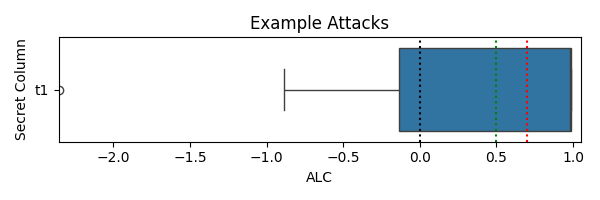
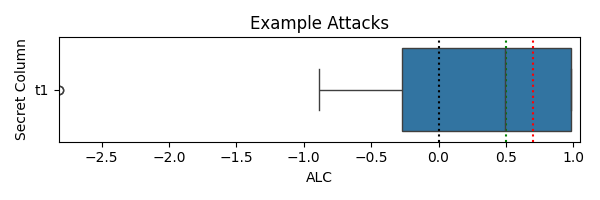
added adaptive halt criteria

diff --git a/anonymity_loss_coefficient/alc/alc_manager.py b/anonymity_loss_coefficient/alc/alc_manager.py
@@ -100,10 +100,11 @@ class ALCManager:
         caller must make an attack prediction in each loop. This method determines
         when enough predictions have been made to produce a good ALC score.
         """
+        self.num_prc_measures = self.halt_min_significant_attack_prcs
         # First check if we have already run this attack.
         if self.rep.already_attacked(secret_column, known_columns):
             self.logger.info(f"Already ran attack on {secret_column} with known columns {known_columns}. Skipping.")
-            self.halt_info = {'halted': True, 'reason': 'attack already run. skipping.', 'num_attacks': 0}
+            self.halt_info = {'halted': True, 'reason': 'attack already run. skipping.', 'num_attacks': 0, 'halt_code': 'skip'}
             return
 
         # Establish the targets to ignore, if any, and make a ScoreInterval object
@@ -112,7 +113,7 @@ class ALCManager:
         if ignore_value is not None:
             if ignore_fraction == 0.0:
                 self.logger.info(f"Only one value in {secret_column}, so halt.")
-                self.halt_info = {'halted': True, 'reason': 'Only one value to attack. skipping.', 'num_attacks': 0}
+                self.halt_info = {'halted': True, 'reason': 'Only one value to attack. skipping.', 'num_attacks': 0, 'halt_code': 'one_value'}
                 return
             decoded_ignore_value = self.decode_value(secret_column, ignore_value)
             self.logger.info(f"The value {decoded_ignore_value} constitutes {round((100*(1-ignore_fraction)),2)} % of column {secret_column}, so we'll ignore a proportional fraction of those values in the attacks so that our results are better balanced.")
@@ -122,7 +123,7 @@ class ALCManager:
         self._init_cntl_and_build_model(known_columns, secret_column)
 
         num_attacks = 0
-        self.halt_info = {'halted': False, 'reason': 'halt not yet checked', 'num_attacks': 1}
+        self.halt_info = {'halted': False, 'reason': 'halt not yet checked', 'num_attacks': 1, 'halt_code': 'none'}
         self.attack_in_progress = True
         while True:
             for i in range(len(self.df.cntl)):
@@ -171,13 +172,13 @@ class ALCManager:
                 self.logger.debug(pp.pformat(self.halt_info))
                 if self.halt_info['halted'] is True:
                     self.attack_in_progress = False
-                    self.rep.consolidate_results(si_halt.get_alc_scores())
+                    self.rep.consolidate_results(si_halt.get_alc_scores(self.num_prc_measures), self.halt_info['halt_code'])
                     return
             is_assigned = self._next_cntl_and_build_model()
             if is_assigned is False:
-                self.halt_info = {'halted': False, 'reason': 'exhausted all rows',  'num_attacks': num_attacks}
+                self.halt_info = {'halted': True, 'reason': 'exhausted all rows',  'num_attacks': num_attacks, 'halt_code': 'exhausted'}
                 self.attack_in_progress = False
-                self.rep.consolidate_results(si_halt.get_alc_scores())
+                self.rep.consolidate_results(si_halt.get_alc_scores(self.num_prc_measures), self.halt_info['halt_code'])
                 return
 
     def abstention(self) -> bool:
@@ -322,40 +323,68 @@ class ALCManager:
 
     def _ok_to_halt(self, si_halt: ScoreInterval) -> Dict[str, Any]:
         if len(si_halt.df_base) < 10 or len(si_halt.df_attack) < 10:
-            return {'halted': False, 'reason': f'not enough samples {len(si_halt.df_base)} base, {len(si_halt.df_attack)} attack'}
-        alc_scores = si_halt.get_alc_scores()
+            return {'halted': False, 'reason': f'not enough samples {len(si_halt.df_base)} base, {len(si_halt.df_attack)} attack', 'halt_code': 'none'}
+        alc_scores = si_halt.get_alc_scores(self.num_prc_measures)
         # put the values of alc_scores['paired'] into a list called paired
         if len(alc_scores) == 0:
-            return {'halted': False, 'reason':f'no alc scores with attack and base score intervals < {self.max_score_interval}'}
+            return {'halted': False, 'reason':f'no alc scores with attack and base score intervals < {self.max_score_interval}', 'halt_code': 'none'}
         best_alc_score, alc_scores = si_halt.split_scores(alc_scores)
         if best_alc_score is None:
-            return {'halted': False, 'reason':f'no prc scores with attack and base score intervals < {self.halt_interval_thresh}'}
+            return {'halted': False, 'reason':f'no prc scores with attack and base score intervals < {self.halt_interval_thresh}', 'halt_code': 'none'}
 
         ret = best_alc_score
         if ret['alc_high'] < self.halt_thresh_low:
-            ret.update({'halted':True, 'reason':'alc extremely low'})
+            ret.update({'halted':True, 'reason':'alc extremely low', 'halt_code': 'extreme_low'})
             return ret
         if ret['alc_low'] > self.halt_thresh_high:
-            ret.update({'halted':True, 'reason':'alc extremely high'})
+            ret.update({'halted':True, 'reason':'alc extremely high', 'halt_code': 'extreme_high'})
             return ret
         # We didn't halt because of extreme high or low ALC, so now we want to determine
         # if further attacks are likely to yield a better ALC.
         # Sort alc_scores from highest to lowest 'attack_recall'
-        attack_prcs = self._get_significant_attack_prcs(alc_scores)
-        if len(attack_prcs) == len(alc_scores) and (len(si_halt.df_base) > 200 or len(si_halt.df_attack) > 200):
+        sig_attack_prcs = self._get_significant_attack_prcs(alc_scores)
+        if len(sig_attack_prcs) == len(alc_scores):
             # This occurs if all alc_scores are significant (have attack_si and
-            # base_si < halt_interval_thresh). Further attacks will only normally reduce
-            # the already measured precision score intervals, not yield still lower
-            # recall values.
-            ret.update({'halted':True, 'reason':f'all {len(attack_prcs)} attack prc measures significant'})
+            # base_si < halt_interval_thresh). Make sure we have 200 predictions
+            # so that we've given an adequate opportunity to get all the confidence
+            # values we're likely to get.
+            if len(si_halt.df_base) < 200 and len(si_halt.df_attack) < 200:
+                ret.update({'halted':False, 'reason':f'not enough samples to have adequate predictions when all attack prc measures {len(sig_attack_prcs)} significant', 'halt_code': 'none'})
+                return ret
+
+            # Check if there are simply not very many different confidence values,
+            # because if so, then more attacks aren't going to help much because we
+            # aren't likely to get more different confidence values.
+            if len(sig_attack_prcs) < self.num_prc_measures:
+                ret.update({'halted':True, 'reason':f'all {len(sig_attack_prcs)} attack prc measures significant', 'halt_code': 'all_sig'})
+                return ret
+            
+            # Check to see if we aren't making significant improvement by reducing
+            # recall. If not we halt, but if we are, we increase num_prc_measures so
+            # as to dig out still lower recall values.
+            if ((sig_attack_prcs[-1] - sig_attack_prcs[-2] >= self.halt_min_prc_improvement)
+                and (sig_attack_prcs[-2] - sig_attack_prcs[-3] >= self.halt_min_prc_improvement)
+               ): 
+                self.num_prc_measures += 1
+                ret.update({'halted':False, 'reason':f'still improving at {len(sig_attack_prcs)} significant attack prc measures', 'halt_code': 'none'})
+                return ret
+            ret.update({'halted':True, 'reason':f'all {len(sig_attack_prcs)} attack prc measures significant with no improvement', 'halt_code': 'no_improve_all_sig'})
             return ret
-        if len(attack_prcs) < self.halt_min_significant_attack_prcs:
-            ret.update({'halted':False, 'reason':f'too few significant attack prc measures ({len(attack_prcs)})'})
+        # If we get here, it means that there are some PRC measures that are
+        # not yet significant. This means that we have a chance to get better
+        # PRC scores with the set of confidence values we currently have.
+
+        # Let's not give up if we don't have many significant attack prc measures.
+        if len(sig_attack_prcs) < self.halt_min_significant_attack_prcs:
+            ret.update({'halted':False, 'reason':f'too few significant attack prc measures ({len(sig_attack_prcs)})', 'halt_code': 'none'})
             return ret
-        if attack_prcs[-1] - attack_prcs[-2] < self.halt_min_prc_improvement:
-            ret.update({'halted':True, 'reason':f'attack prc measures not improving more than {self.halt_min_prc_improvement}'})
+        # In spite of still having non-significant attack PRC measures, if no
+        # progress has been made at all in the last two significant PRC measures,
+        # let's give up.
+        if sig_attack_prcs[-1] < sig_attack_prcs[-2]:
+            ret.update({'halted':True, 'reason':f'attack prc measures not improving more than {self.halt_min_prc_improvement}', 'halt_code': 'no_improve_some_sig'})
             return ret
-        ret.update({'halted':False, 'reason':'halt conditions not met'})
+        ret.update({'halted':False, 'reason':'halt conditions not met', 'halt_code': 'none'})
         return ret
 
     # Following are the methods that use DataFiles

diff --git a/anonymity_loss_coefficient/alc/score_interval.py b/anonymity_loss_coefficient/alc/score_interval.py
@@ -51,14 +51,14 @@ class ScoreInterval:
 
 
 
-    def get_alc_scores(self) -> List[Dict]:
+    def get_alc_scores(self, num_prc_measures: int) -> List[Dict]:
         alc_scores = []
         # sort df_base by base_confidence descending
         df_base = self.df_base.sort_values(by='base_confidence', ascending=False)
         atk_confs = sorted(self.df_attack['attack_confidence'].unique(), reverse=True)
         atk_confs = [x for x in atk_confs if pd.notna(x)]
-        # limit atk_confs to 10 values, because there can be very many
-        atk_confs = _select_evenly_distributed_values(atk_confs)
+        # limit atk_confs to num_prc_measures values, because there can be very many
+        atk_confs = _select_evenly_distributed_values(atk_confs, num_prc_measures)
         for atk_conf in atk_confs:
             df_atk_conf = self.df_attack[self.df_attack['attack_confidence'] >= atk_conf]
             num_predictions = len(df_atk_conf)
@@ -116,7 +116,7 @@ class ScoreInterval:
                 'attack_si_low': attack_low,
                 'attack_si_high': attack_high,
             })
-        # We alc_scores so far have closely matching base and attack recalls. However,
+        # The alc_scores so far have closely matching base and attack recalls. However,
         # we want to compute an ALC score using the best base and attack PRC values,
         # even though they may have different recall values.
         base_best_score, attack_best_score = self._get_score_from_max_significant_prcs(alc_scores)
@@ -219,12 +219,12 @@ class ScoreInterval:
         return lower_bound, upper_bound
 
 
-def _select_evenly_distributed_values(sorted_list):
+def _select_evenly_distributed_values(sorted_list: list, num_prc_measures: int) -> List[float]:
     '''
-    This limits the number of values in the list to 10 values, evenly distributed.
+    This splits the confidence values into num_prc_measures evenly spaced values.
     Note by the way that this is being used on the attack confidence values.
     '''
-    if len(sorted_list) <= 10:
+    if len(sorted_list) <= num_prc_measures:
         return sorted_list
     selected_values = [sorted_list[0]]
     step_size = (len(sorted_list) - 1) / 9

diff --git a/anonymity_loss_coefficient/alc/reporting.py b/anonymity_loss_coefficient/alc/reporting.py
@@ -107,7 +107,7 @@ class Reporter():
         df_secret_known_results = pd.DataFrame(self.list_secret_known_results_done)
         return self._filter_df(df_secret_known_results, known_columns, secret_column)
 
-    def _alc_per_secret_and_known(self, score_info: List[Dict]) -> List[Dict]:
+    def _alc_per_secret_and_known(self, score_info: List[Dict], halt_code: str) -> List[Dict]:
         # self.list_results contains the results of the latest attack only
         df_in = pd.DataFrame(self.list_results)
         df_in['prediction'] = df_in['predicted_value'] == df_in['true_value']
@@ -126,6 +126,7 @@ class Reporter():
             score['num_known_columns'] = num_known_columns
             score['base_count'] = base_count
             score['attack_count'] = attack_count
+            score['halt_code'] = halt_code
             rows.append(score)
         return rows
 
@@ -152,12 +153,12 @@ class Reporter():
     def _make_known_columns_str(self, known_columns: List[str]) -> str:
         return json.dumps(sorted(known_columns))
 
-    def consolidate_results(self, score_info: List[Dict]) -> None:
+    def consolidate_results(self, score_info: List[Dict], halt_code: str) -> None:
         if len(self.list_results) == 0:
             self.logger.warning("Warning: No results to consolidate.")
             return
         # move the results from the list to a dataframe
-        list_secret_known_results = self._alc_per_secret_and_known(score_info)
+        list_secret_known_results = self._alc_per_secret_and_known(score_info, halt_code)
         # At this point, self.list_results, and list_secret_known_results
         # contain the results of the latest attack only
         self.list_results_done += self.list_results

diff --git a/scripts/best_row_match/run_brm_attack.py b/scripts/best_row_match/run_brm_attack.py
@@ -73,8 +73,8 @@ def launch_attack(data: str,
         brm.run_one_attack(secret_column=secret[0], known_columns=known)
         return
     if known is None:
-        brm.run_all_columns_attack(secret_cols=secret)
-    brm.run_auto_attack(secret_cols=secret, known_columns=known)
+        brm.run_all_columns_attack(secret_columns=secret)
+    brm.run_auto_attack(secret_columns=secret, known_columns=known)
 
 def main():
     # Create the argument parser

diff --git a/anonymity_loss_coefficient/alc/defaults.py b/anonymity_loss_coefficient/alc/defaults.py
@@ -9,7 +9,7 @@ defaults = {
     'halt_thresh_low': 0.25,
     'halt_thresh_high': 0.9,
     'halt_interval_thresh': 0.1,
-    'halt_min_significant_attack_prcs': 3,
+    'halt_min_significant_attack_prcs': 3,  # Must be at least 3
     'halt_min_prc_improvement': 0.01,
     'halt_check_count': 20,
     'flush': False,
